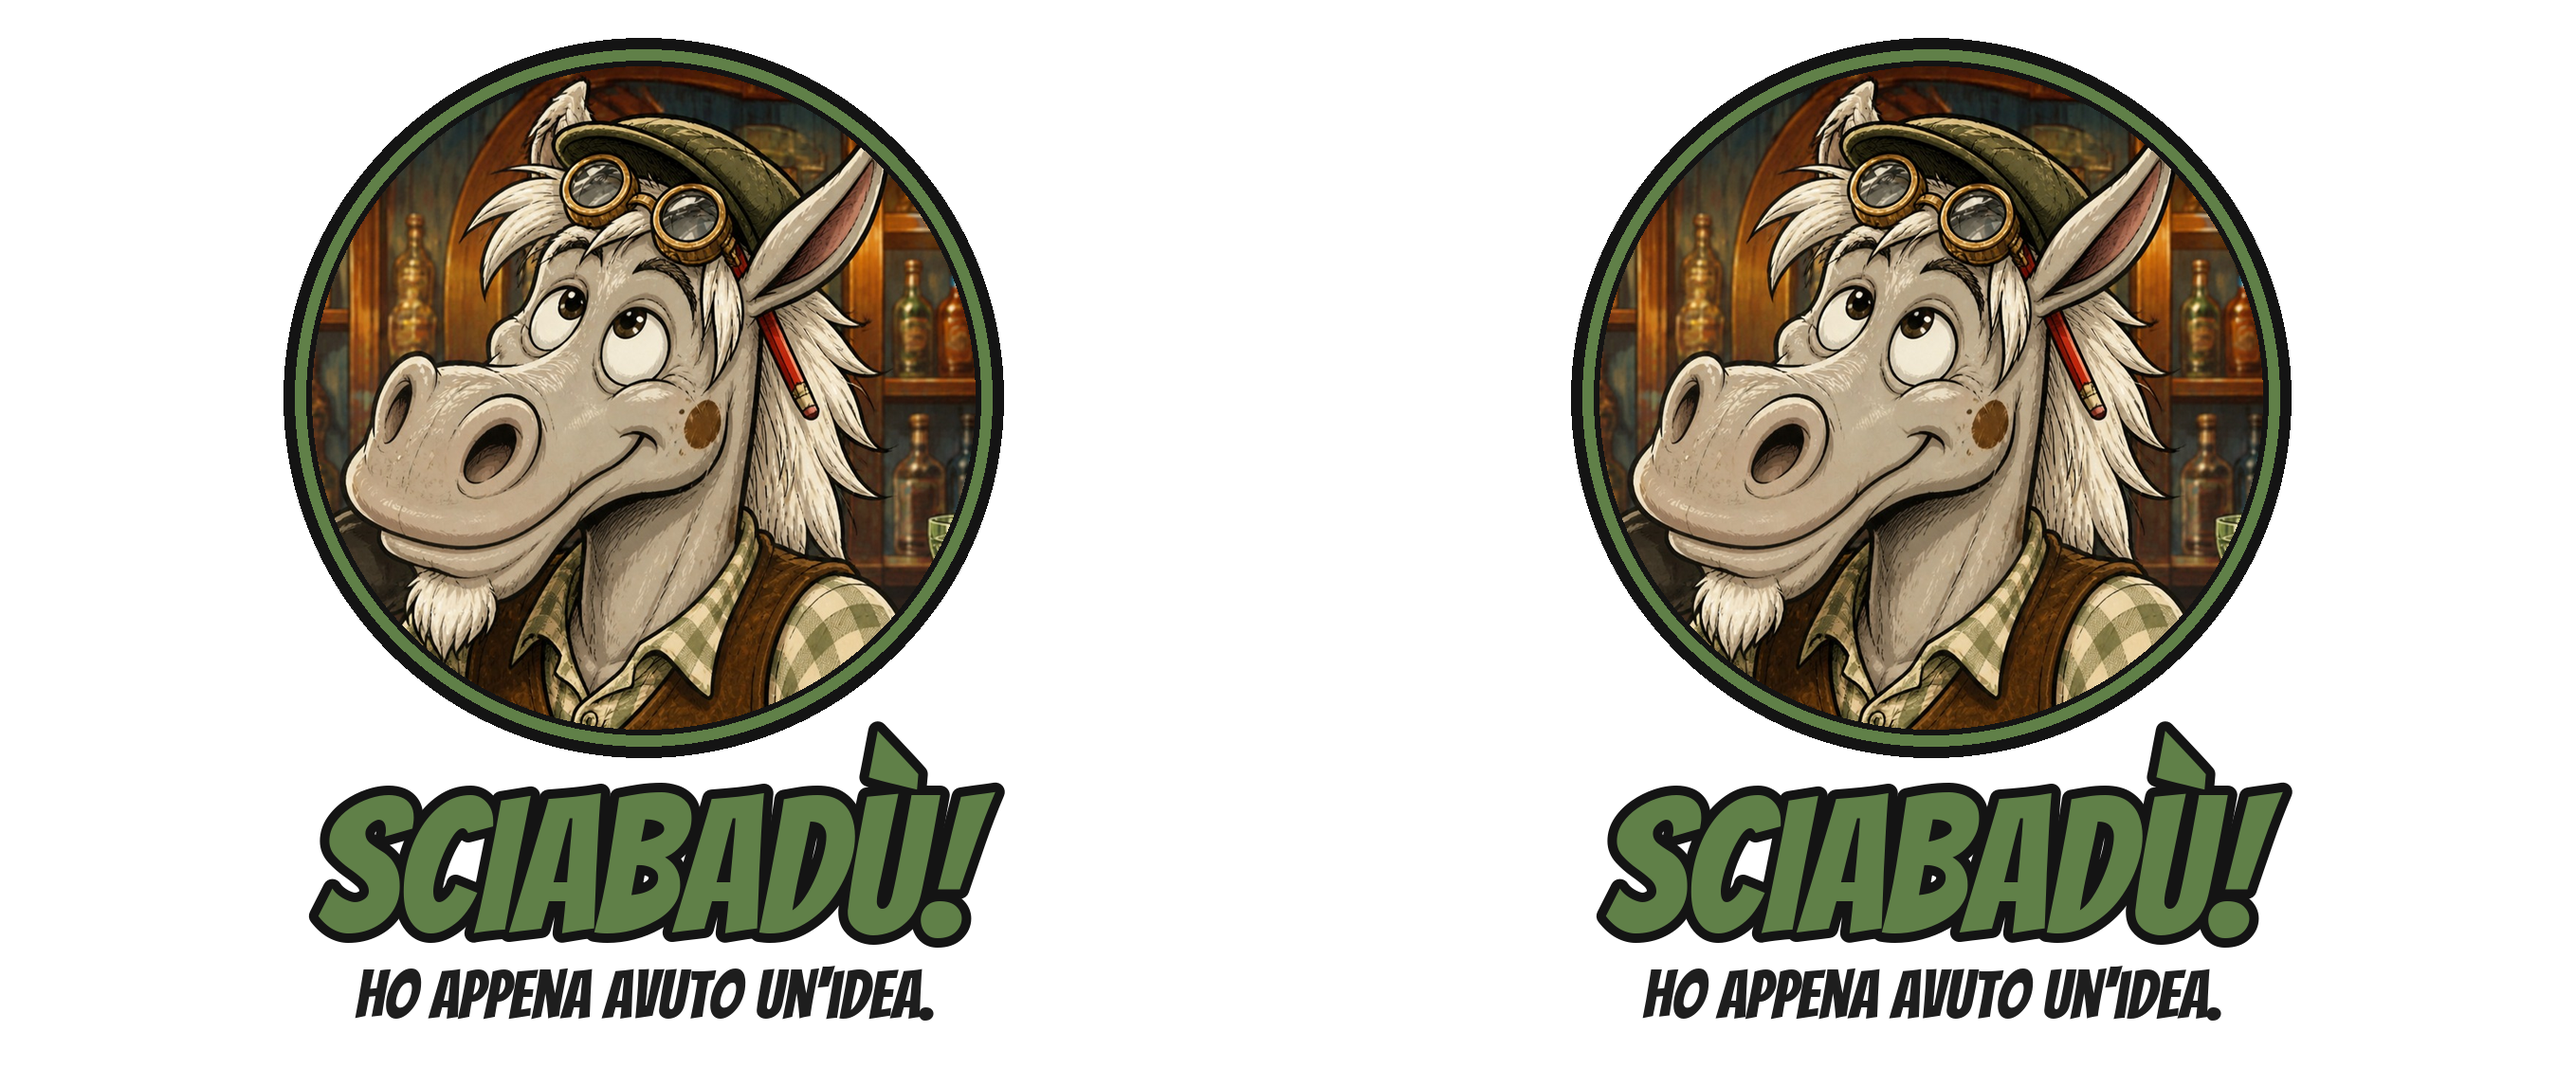
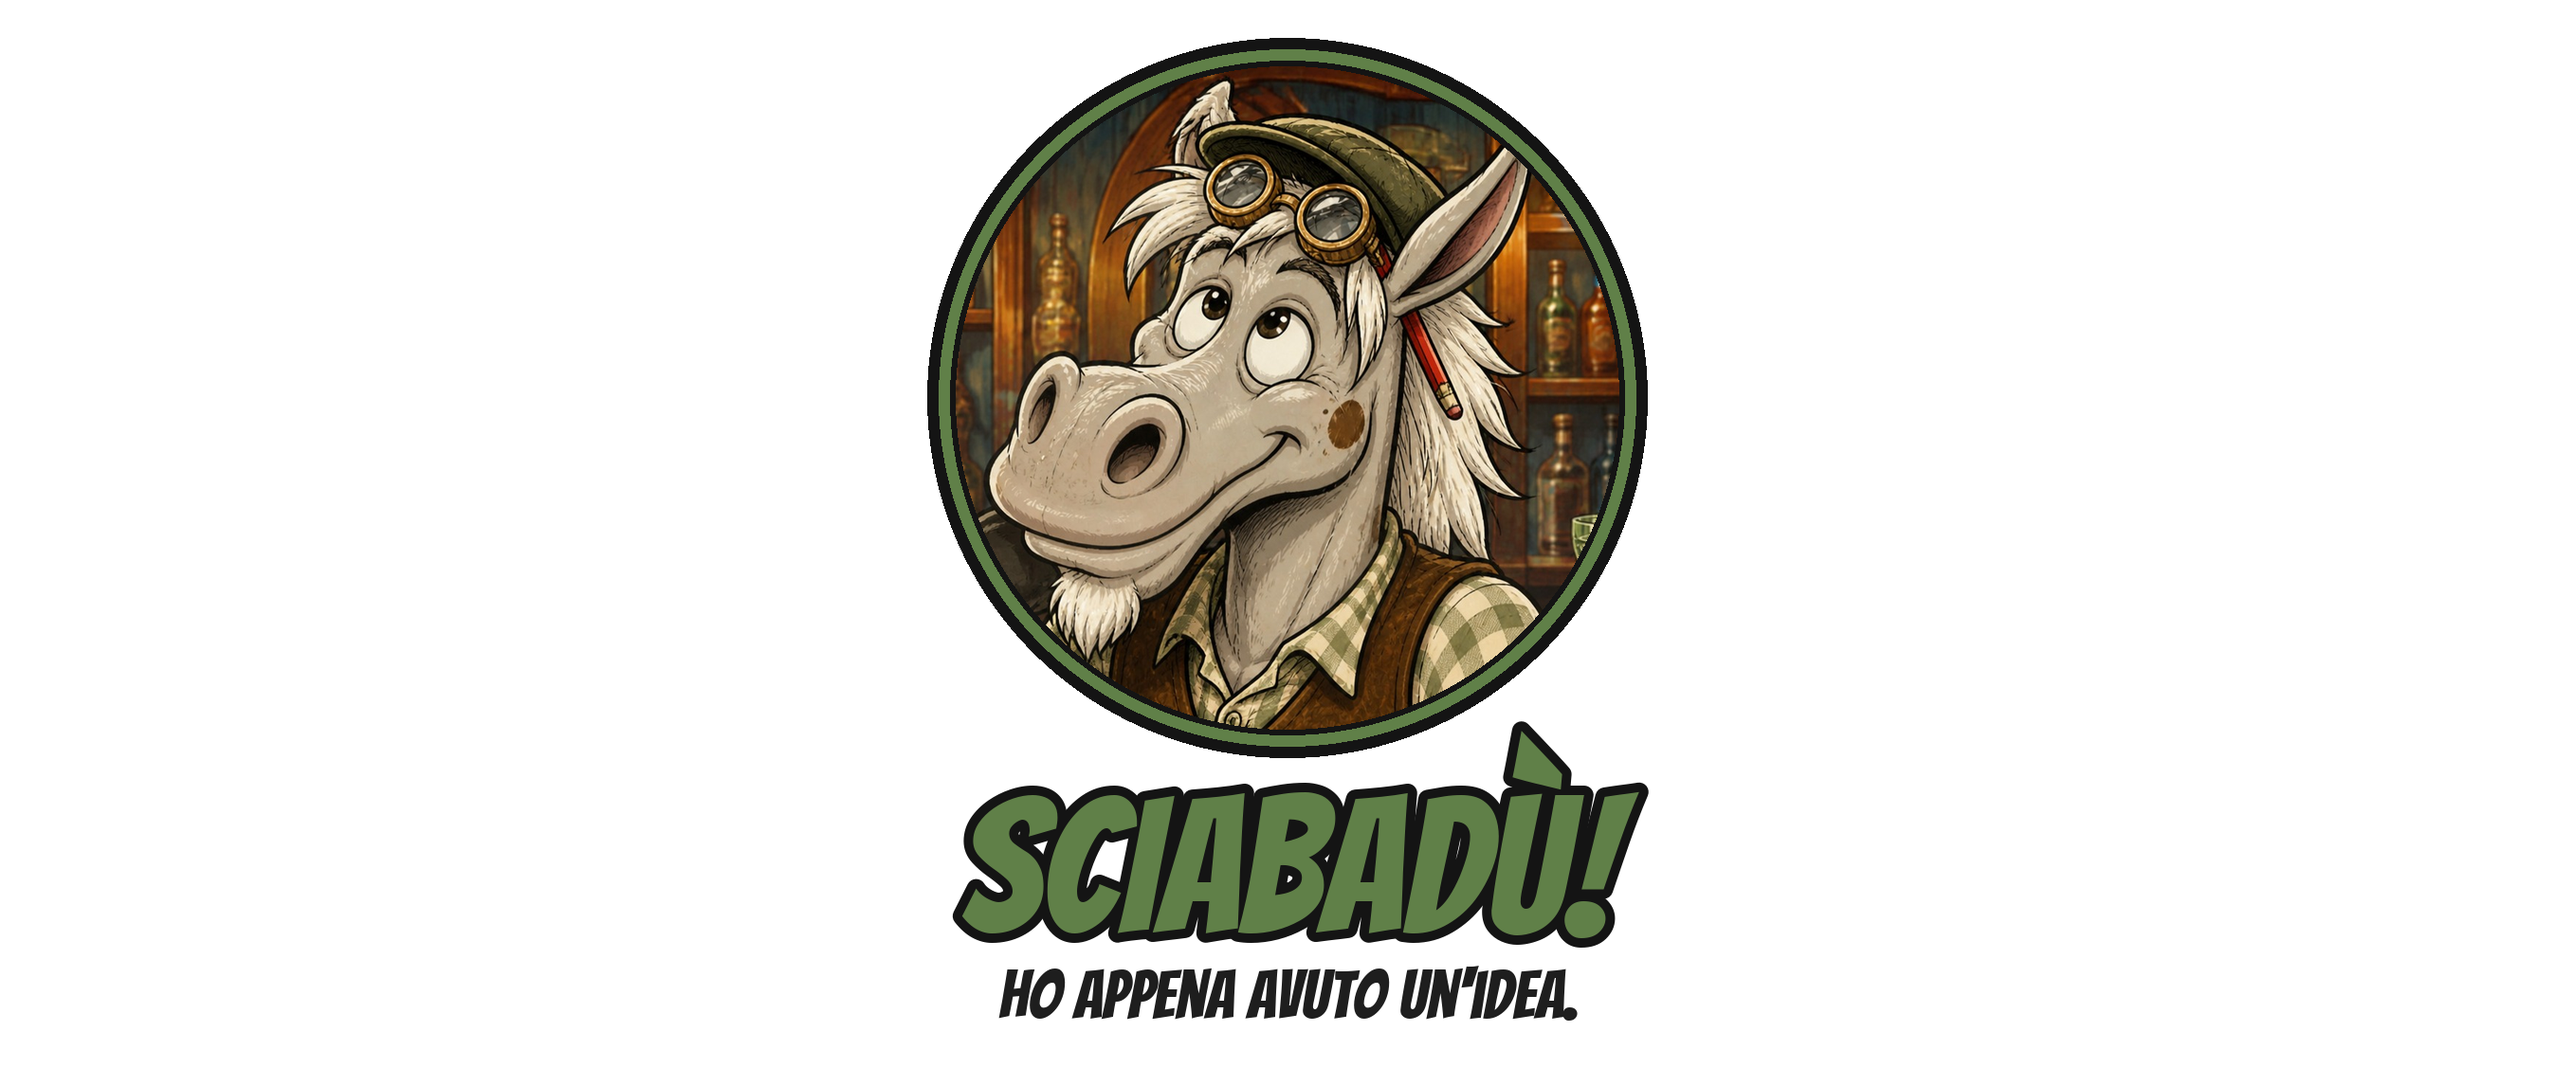
Tazze: disegno unico centrato (vista frontale Printify)
Claude-Session: https://claude.ai/code/session_01HKwAm8tuApUGUVMEUPB5Lm

diff --git a/gadget/tazze.py b/gadget/tazze.py
@@ -69,7 +69,7 @@ def anteprima(lato_img):
     return bg
 for t in TAZZE:
     l = lato(t); stampa = Image.new("RGB", (W, H), (255,255,255))
-    stampa.paste(l, (0,0), l); stampa.paste(l, (W//2,0), l)
+    stampa.paste(l, ((W - l.width)//2, 0), l)  # un solo disegno al centro: e' la vista frontale di Printify
     stampa.save(OUT + t["nome"] + "_stampa.png", dpi=(300,300))
     anteprima(l).save(OUT + t["nome"] + "_anteprima.jpg", quality=90)
     print("ok", t["nome"])
